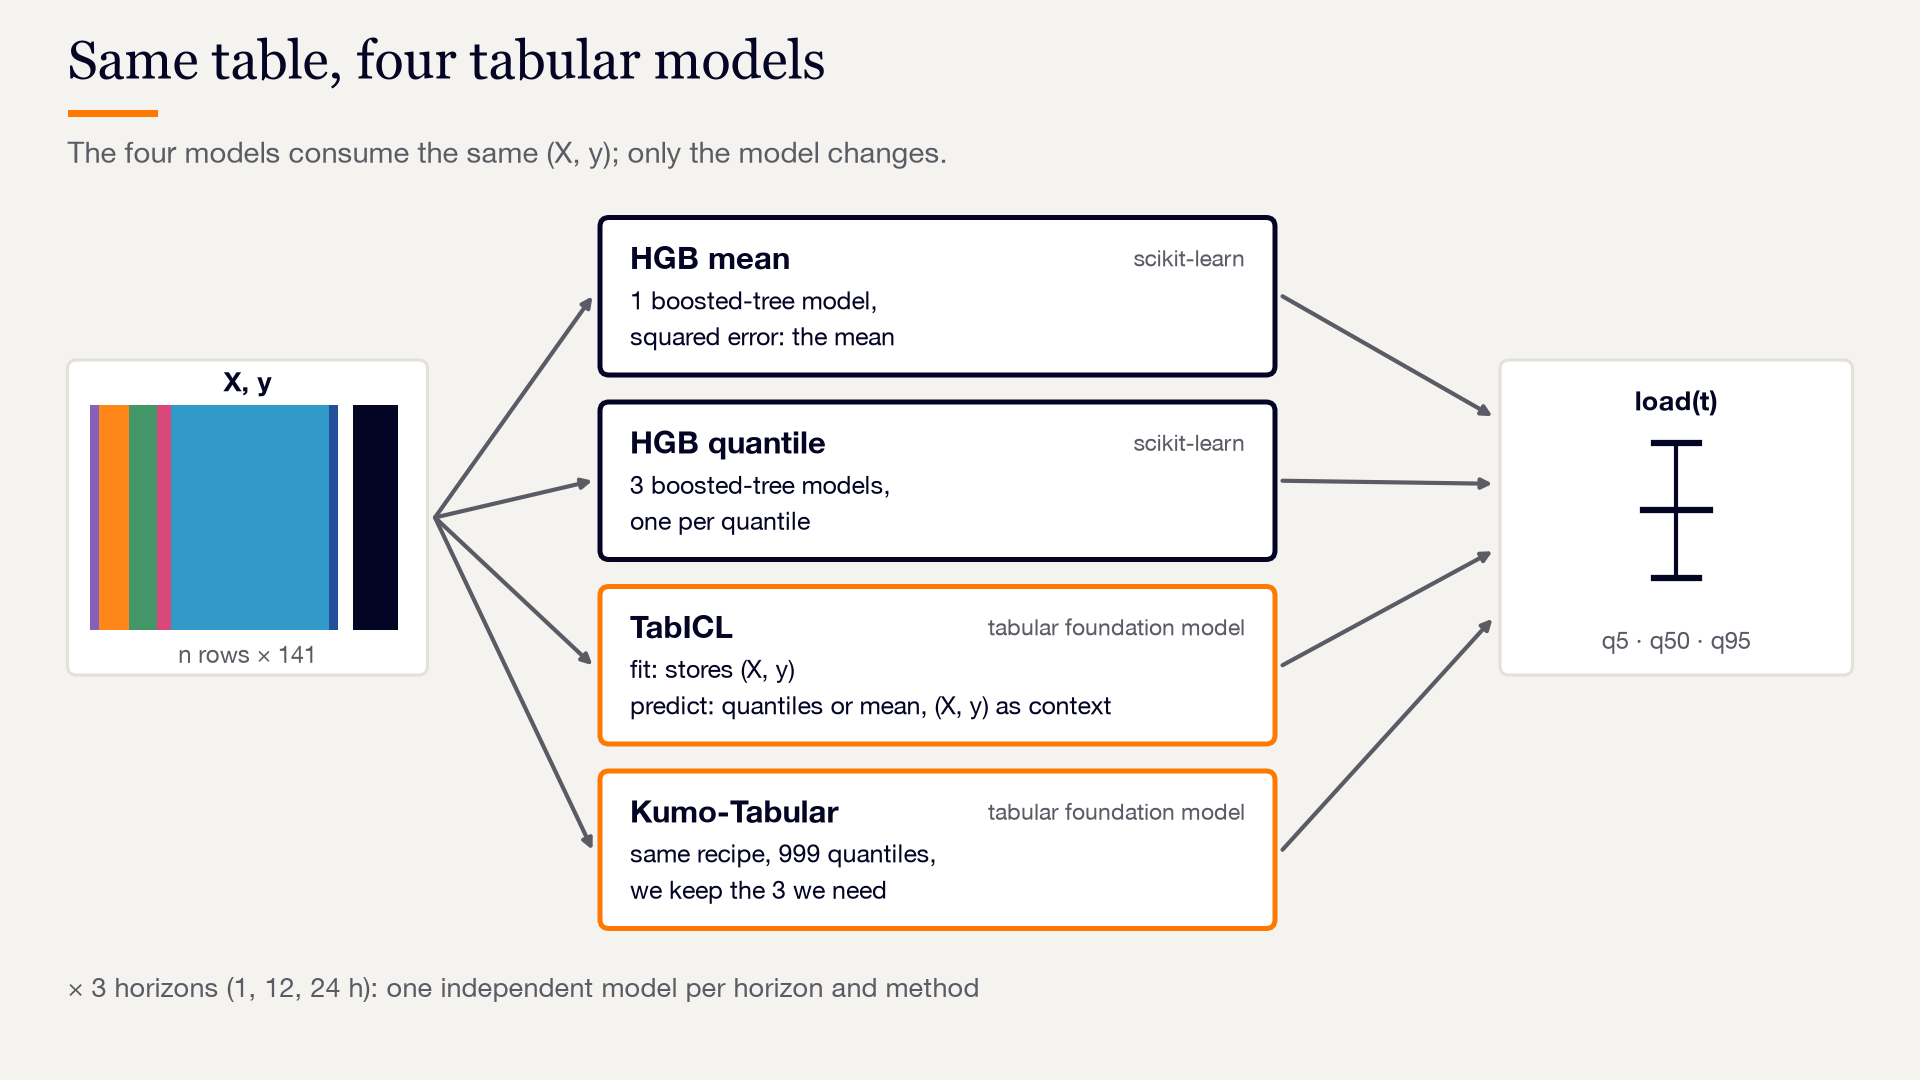
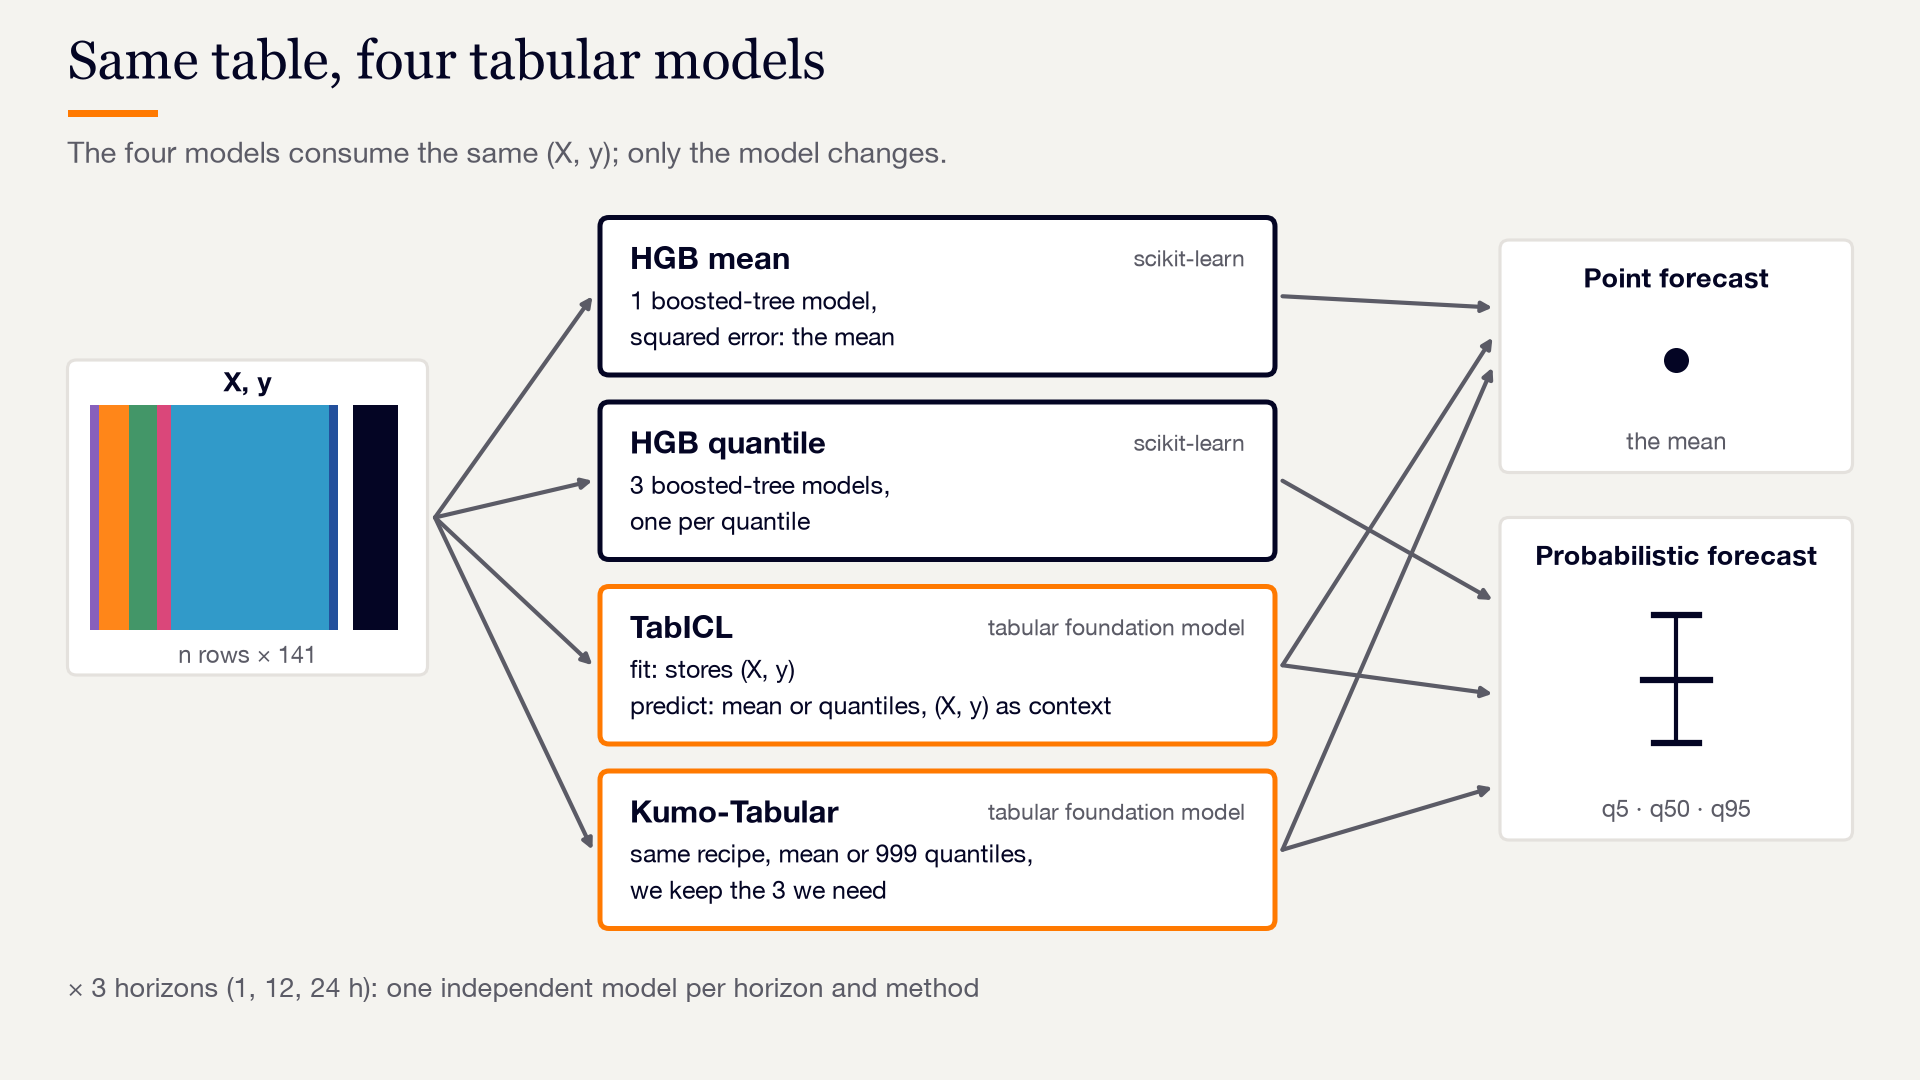
Frame 14: separate point forecast (mean) and probabilistic forecast (quantiles) output boxes

diff --git a/slides/index.html b/slides/index.html
@@ -269,7 +269,7 @@ background-size: 100% 100%
 
 ???
 
-- Same table, four tabular models. HGB mean: one model for the mean. HGB quantile: one model per quantile. TabICL and Kumo-Tabular (TFMs): `fit` just stores (X, y); prediction runs the pretrained transformer with the training table as context, and the TFMs can return quantiles or the mean. Kumo returns 999 quantiles, we keep 5/50/95%.
+- Same table, four tabular models. HGB mean: one model for the mean. HGB quantile: one model per quantile. TabICL and Kumo-Tabular (TFMs): `fit` just stores (X, y); prediction runs the pretrained transformer with the training table as context, and the TFMs can return the mean or quantiles. Two outputs: a point forecast (the mean) and a probabilistic forecast (the 5/50/95% quantiles). Kumo returns 999 quantiles, we keep 5/50/95%.
 
 ---
 class: dark, middle, section-slide

diff --git a/scripts/make_ts_feature_frames.py b/scripts/make_ts_feature_frames.py
@@ -296,8 +296,9 @@ FRAMES = [
         "The four models consume the same (X, y); only the model changes.",
         "HGB mean: one model for the mean. HGB quantile: one model per quantile. TabICL and "
         "Kumo-Tabular (TFMs): `fit` just stores (X, y); prediction runs the pretrained transformer "
-        "with the training table as context, and returns quantiles or the mean. Kumo returns 999 "
-        "quantiles, we keep 5/50/95%.",
+        "with the training table as context, and returns the mean or quantiles. Outputs: a point "
+        "forecast (the mean) and a probabilistic forecast (the 5/50/95% quantiles). Kumo returns "
+        "999 quantiles, we keep 5/50/95%.",
     ),
 ]
 N_FRAMES = len(FRAMES)
@@ -797,31 +798,48 @@ def draw_models(step, S, dpi):
     bg.text(tx + tw / 2, ty + 0.14, f"n rows × {tot}", ha="center", va="center", size=11.5, color=GRAY)
 
     models = [
-        ("HGB mean", "scikit-learn", "1 boosted-tree model,\nsquared error: the mean", BLUE),
-        ("HGB quantile", "scikit-learn", "3 boosted-tree models,\none per quantile", BLUE),
-        ("TabICL", "tabular foundation model", "fit: stores (X, y)\npredict: quantiles or mean, (X, y) as context", ORANGE),
-        ("Kumo-Tabular", "tabular foundation model", "same recipe, 999 quantiles,\nwe keep the 3 we need", ORANGE),
+        # (name, family, description, colour, targets): targets are the output boxes
+        # reached by the model, "point" = mean, "proba" = the 3 quantiles
+        ("HGB mean", "scikit-learn", "1 boosted-tree model,\nsquared error: the mean", BLUE, ("point",)),
+        ("HGB quantile", "scikit-learn", "3 boosted-tree models,\none per quantile", BLUE, ("proba",)),
+        ("TabICL", "tabular foundation model", "fit: stores (X, y)\npredict: mean or quantiles, (X, y) as context", ORANGE, ("point", "proba")),
+        ("Kumo-Tabular", "tabular foundation model", "same recipe, mean or 999 quantiles,\nwe keep the 3 we need", ORANGE, ("point", "proba")),
     ]
     bx, bw, bh, gap = 4.0, 4.5, 1.05, 0.18
     top = 5.75
-    for i, (name, family, desc, color) in enumerate(models):
+    # output boxes: a point forecast (the mean) and a probabilistic forecast (3 quantiles)
+    ox, ow = 10.0, 2.35
+    pt_y, pt_h = 4.05, 1.55
+    pr_y, pr_h = 1.6, 2.15
+    box(bg, ox, pt_y, ow, pt_h, "white", BEIGE_DARK, lw=1.5)
+    bg.text(ox + ow / 2, pt_y + pt_h - 0.14, "Point forecast", ha="center", va="top", size=13, color=BLUE, weight="bold")
+    bg.plot([ox + ow / 2], [pt_y + 0.75], marker="o", ms=11, color=BLUE, ls="none")
+    bg.text(ox + ow / 2, pt_y + 0.12, "the mean", ha="center", va="bottom", size=11.5, color=GRAY)
+    box(bg, ox, pr_y, ow, pr_h, "white", BEIGE_DARK, lw=1.5)
+    bg.text(ox + ow / 2, pr_y + pr_h - 0.14, "Probabilistic forecast", ha="center", va="top", size=13, color=BLUE, weight="bold")
+    mx = ox + ow / 2
+    bg.plot([mx, mx], [pr_y + 0.65, pr_y + 1.5], color=BLUE, lw=2)
+    for yy, ww in ((0.65, 0.3), (1.07, 0.45), (1.5, 0.3)):
+        bg.plot([mx - ww / 2, mx + ww / 2], [pr_y + yy, pr_y + yy], color=BLUE, lw=3)
+    bg.text(ox + ow / 2, pr_y + 0.12, "q5 · q50 · q95", ha="center", va="bottom", size=11.5, color=GRAY)
+    # arrow end points on the left edge of each output box, one slot per model
+    slots = {"point": (pt_y + pt_h - 0.45, pt_y + 0.7), "proba": (pr_y + pr_h - 0.55, pr_y + 0.35)}
+    used = {"point": 0, "proba": 0}
+
+    for i, (name, family, desc, color, targets) in enumerate(models):
         y = top - bh - i * (bh + gap)
         box(bg, bx, y, bw, bh, "white", color, lw=2.4)
         bg.text(bx + 0.2, y + bh - 0.14, name, size=15, color=BLUE, va="top", weight="bold")
         bg.text(bx + bw - 0.2, y + bh - 0.18, family, size=11, color=GRAY, va="top", ha="right")
         bg.text(bx + 0.2, y + 0.12, desc, size=12, color=BLUE, va="bottom", linespacing=1.25)
         arrow(bg, tx + tw + 0.05, ty + th / 2, bx - 0.05, y + bh / 2)
-        arrow(bg, bx + bw + 0.05, y + bh / 2, 9.95, 3.75 + (1.5 - i) * 0.45)
+        for tgt in targets:
+            top_slot, bottom_slot = slots[tgt]
+            n_in = sum(tgt in m[4] for m in models)
+            ty_out = top_slot + (bottom_slot - top_slot) * used[tgt] / max(n_in - 1, 1)
+            used[tgt] += 1
+            arrow(bg, bx + bw + 0.05, y + bh / 2, ox - 0.05, ty_out)
 
-    # output
-    ox, oy, ow, oh = 10.0, 2.7, 2.35, 2.1
-    box(bg, ox, oy, ow, oh, "white", BEIGE_DARK, lw=1.5)
-    bg.text(ox + ow / 2, oy + oh - 0.16, "load(t)", ha="center", va="top", size=13, color=BLUE, weight="bold")
-    bg.text(ox + ow / 2, oy + 0.14, "q5 · q50 · q95", ha="center", va="bottom", size=11.5, color=GRAY)
-    mx = ox + ow / 2
-    bg.plot([mx, mx], [oy + 0.65, oy + 1.55], color=BLUE, lw=2)
-    for yy, ww in ((0.65, 0.3), (1.1, 0.45), (1.55, 0.3)):
-        bg.plot([mx - ww / 2, mx + ww / 2], [oy + yy, oy + yy], color=BLUE, lw=3)
     bg.text(0.45, 0.62, "× 3 horizons (1, 12, 24 h): one independent model per horizon and method",
             size=13, color=GRAY, va="center")
     return fig
